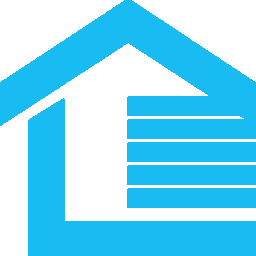
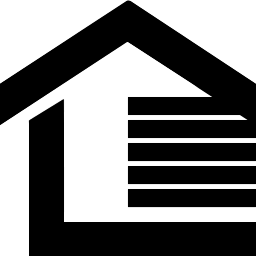
update readme

diff --git a/custom_components/espsomfy_rts/const.py b/custom_components/espsomfy_rts/const.py
@@ -2,7 +2,7 @@
 
 from homeassistant.const import Platform
 
-VERSION = "v2.5.3"
+VERSION = "v2.5.4"
 DOMAIN = "espsomfy_rts"
 MANUFACTURER = "xkain"
 API_CONTROLLER = "/controller"

diff --git a/README.md b/README.md
@@ -1,67 +1,107 @@
-<image src="https://user-images.githubusercontent.com/47839015/218900217-81f88955-67b8-4ed8-8e97-271de66c555e.png" align="right" style="margin-top:-2em;width:177px;margin-right:2em;display:inline-block;float:right;"></image>
+<div align="center">
 
-[![hacs_badge](https://img.shields.io/badge/HACS-Custom-41BDF5.svg?style=for-the-badge)](https://github.com/hacs/integration) 
+[![GitHub Release](https://img.shields.io/github/release/xkain/ESPSomfy-RTS-HA.svg?style=for-the-badge)](https://github.com/xkain/ESPSomfy-RTS-HA/releases)
+[![GitHub Activity](https://img.shields.io/github/last-commit/xkain/ESPSomfy-RTS-HA?style=for-the-badge)](https://github.com/xkain/ESPSomfy-RTS-HA/commits/main)
+[![License](https://img.shields.io/github/license/xkain/ESPSomfy-RTS-HA.svg?style=for-the-badge)](LICENSE)
 
-[![Open your Home Assistant instance and open a repository inside the Home Assistant Community Store.](https://my.home-assistant.io/badges/hacs_repository.svg)](https://my.home-assistant.io/redirect/hacs_repository/?owner=xkain&repository=ESPSomfy-RTS-HA)
+[![hacs_badge](https://img.shields.io/badge/HACS-Default-blue.svg?style=for-the-badge)](https://github.com/hacs/default)
+[![Project Maintenance](https://img.shields.io/badge/maintainer-xkain-blue.svg?style=for-the-badge)](https://github.com/xkain)
+![Github](https://img.shields.io/github/followers/xkain.svg?style=for-the-badge)
 
+<br />
+<br />
 
-# ESPSomfy RTS-HA (Fork )
-Control up to 32 of your somfy shades in Home Assistant and set their position using an ESP32 and an inexpensive CC1101 tranceiver module. You may also define up to 16 group shades that will allow you to move multiple covers at once.
+<!-- Home Assistant Action Button -->
+<a href="https://my.home-assistant.io/redirect/hacs_repository/?owner=xkain&repository=ESPSomfy-RTS-HA">
+  <img src="https://my.home-assistant.io/badges/hacs_repository.svg" alt="Open your Home Assistant instance and open a repository inside the Home Assistant Community Store.">
+</a>
 
+<br />
+<br />
 
+<a href="https://github.com/xkain/ESPSomfy-RTS-HA/">
+  <img src="https://github.com/xkain/ESPSomfy-RTS/raw/main/images/logo.svg" alt="Logo" width="80" height="80">
+</a>
 
-# Requirements
-This integration requires hardware that uses an ESP32 microcontroller and a CC1101 transceiver. Setup for this controller can be found at the [ESPSomfy RTS hardware repositiory](https://github.com/rstrouse/ESPSomfy-RTS). You must have one of these inexpensive radios configured for your shades.
+## ESPSomfy-RTS-HA
 
-# Installation
-The easiest way to get going is to install this integration in Home Assistant using HACS as a [Custom Repository](https://hacs.xyz/docs/faq/custom_repositories/). 
+A custom Home Assistant integration (Fork) to precisely control and monitor your equipment (roller shutters, shades, garage doors, gates) using the RTS 433 MHz protocol.
 
-1. Go to HACS &rarr; Integrations.
-2. Click the 3 dots in the top right corner and select **Custom repositories**.
-3. Add the following URL: `https://github.com/xkain/ESPSomfy-RTS-HA` and select **Integration** as the category.
-4. Click **Add** and install the integration.
+### [README complet en français 🇫🇷 »](https://github.com/xkain/ESPSomfy-RTS-HA/blob/main/README_fr.md)
+### [Explore the documentation »](https://github.com/xkain/ESPSomfy-RTS-HA/wiki)
 
-As an alternative you may install it manually by copying the contents of the `custom_components` folder to the `config/custom_components` directory of your Home Assistant installation.
+**[Report Bug](https://github.com/xkain/ESPSomfy-RTS-HA/issues) · [Request Feature](https://github.com/xkain/ESPSomfy-RTS-HA/pulls)**
 
-## Setup
-Once installed, ESPSomfy-RTS-HA will automatically detect any radio devices on your local network. Just browse to Home Assistant's Settings &rarr; Devices & Services and your ESPSomfy-RTS device will show up as available to configure.
+</div>
 
-# Updates
-After you have installed the plugin, you will be notified when there is a new version of the plugin available. As of v2.2.1 of the ESPSomfy RTS firmware you can also update your devices remotely using the update entity included in the plugin. It will notify you when there is a new version to install.
+<br />
 
-# Functionality
-Once configured you will be able to open, close, and set the position of your shades using home assistant. The integration will monitor the position of the shade regardless of how it was opened or closed. This includes opening or closing it using a Telis remote. Shades can be added to your dashboards and automated with Home Assistant services through automations.
+## Overview
 
-![image](https://user-images.githubusercontent.com/47839015/213933858-95042e9e-0874-4e58-8123-87146439a20e.png)
+**ESPSomfy-RTS-HA** allows you to control all your devices in Home Assistant and accurately set their position. This integration relies on an ESP32 microcontroller coupled with a cheap CC1101 transceiver module, driven by the [ESPSomfy-RTS](https://github.com/xkain/ESPSomfy-RTS) firmware.
 
-# Services
-There are a number of automation services available. You can find these in the [Services](https://github.com/rstrouse/ESPSomfy-RTS-HA/wiki/Services) wiki.
+## Requirements
 
-# Events
-The integration emits events on the Home Assistant event bus for all commands whether they have originated in Home Assistant, a remote control, or the ESPSomfy RTS web interface. These events can be captured using the `espsomfy-rts_event` type.
+This integration requires hardware running on an **ESP32** and a **CC1101** transceiver.
+To assemble and configure this hardware, please refer to the repository wiki: [components](https://github.com/rstrouse/ESPSomfy-RTS). The radio protocol must be configured for your devices before using this integration.
 
-The data payload for the event includes:
-* `entity_id`: The entitiy id in home assistant for the target cover
-* `event_key`: The event that triggered this event (for now this is always shadeCommand)
-* `name`: The name assigned to the entity
-* `source`: The originator of the command. This will be one of the following
-  * `remote`: The user pressed a button on a remote
-  * `internal`: The command originated from ESPSomfy RTS
-  * `group`: The command was part of a group command
-* `remote_address`: The address defined for the ESPSomfy RTS motor
-* `source_address`: The address of the source device. If this is a remote it will be the address of the remote channel. If it is part of a group request it will be the address of the group.
-* `command`: This will be one of the following commands
-  * `Up` - An up command was issued
-  * `Down` - An down command was issued
-  * `My` - A my/stop command was issued
-  * `StepUp` - A step up command was issued
-  * `StepDown` - A step down command was issued
-  * `Prog` - The prog button was pressed
-  * `My+Up` - A combination of the my and up button was pressed at the same time
-  * `My+Down` - A combination of the my and down button was pressed at the same time
-  * `Up+Down` - The up and down buttons were pressed at the same time
-  * `My+Up+Down` - The my, up, and down buttons were all pressed at the same time
-  
+---
 
-![image](https://github.com/rstrouse/ESPSomfy-RTS-HA/assets/47839015/2fbf4ad8-86b4-4d4e-ac8e-ce04ba4adeeb)
+## Installation
 
+### Method 1: Via HACS (Recommended)
+The easiest way to get started is to add this repository as a [Custom Repository](https://hacs.xyz/docs/faq/custom_repositories/) in HACS:
+
+1. Go to **HACS** → **Integrations**.
+2. Click the **3 dots** in the top right corner and select **Custom repositories**.
+3. Add the following URL: `https://github.com/xkain/ESPSomfy-RTS-HA`
+4. Select **Integration** as the category, then click **Add**.
+5. Download and install the integration.
+
+### Method 2: Manual Installation
+Simply copy the contents of the `custom_components/espsomfy_rts/` folder and paste it into the `config/custom_components/espsomfy_rts/` directory of your Home Assistant instance.
+
+### Initial Setup
+Once installed and Home Assistant is restarted, the integration will **automatically discover** your radio modules on the local network. Simply navigate to **Settings** → **Devices & Services**: your ESPSomfy-RTS device will show up, ready to be configured.
+
+---
+
+## Features
+
+* **Full Control**: Open, close, and set intermediate positions (percentages) directly from Home Assistant.
+* **State Synchronization**: The integration tracks the real-time position of the cover, even if it is operated by a physical Somfy Telis remote or via the ESP32 web interface.
+* **Simplified Updates**: You will receive a notification whenever a new version of the integration is available. Additionally, since v2.2.1 of the ESPSomfy RTS firmware, a dedicated `update` entity allows you to update your ESP32 firmware directly from the Home Assistant UI.
+* **Automations**: All shades are exposed as standard `cover` entities, ready to be added to your dashboards and used in automations via native services.
+
+---
+
+## Event Management (Events)
+
+The integration emits events on the Home Assistant event bus for every intercepted command (whether it originates from HA, a physical remote control, or the ESP web interface). These events use the `espsomfy-rts_event` type.
+
+### Event Payload Structure
+
+| Key | Description |
+| :--- | :--- |
+| `entity_id` | The target entity ID in Home Assistant (e.g., `cover.living_room_shade`). |
+| `event_key` | The event trigger (currently always set to `shadeCommand`). |
+| `name` | The friendly name assigned to the device. |
+| `remote_address` | The radio address defined for the motor in ESPSomfy RTS. |
+| `source_address` | The source device address (remote control channel address or group address). |
+
+### Values for `source` (Command Origin)
+* `remote`: The user pressed a button on a physical remote control.
+* `internal`: The command was initiated from the ESPSomfy RTS internal interface.
+* `group`: The command was part of a grouped action.
+
+### Values for `command` (Intercepted Actions)
+* `Up` / `Down` / `My`: Standard commands (Up, Down, Stop/Favorite Position).
+* `StepUp` / `StepDown`: Step-by-step micro-adjustments.
+* `Prog`: Program button press.
+* `My+Up` / `My+Down` / `Up+Down` / `My+Up+Down`: Simultaneous physical key combinations.
+
+---
+
+## Automations and Services
+
+Many specific services are available to enrich your automations. Check out the usage examples directly in the [Services section of the Wiki](https://github.com/rstrouse/ESPSomfy-RTS-HA/wiki/Services).

diff --git a/README_fr.md b/README_fr.md
@@ -1,0 +1,113 @@
+[![GitHub Release](https://img.shields.io/github/release/xkain/ESPSomfy-RTS-HA.svg?style=for-the-badge)](https://github.com/xkain/ESPSomfy-RTS-HA/releases)
+[![License](https://img.shields.io/github/license/xkain/ESPSomfy-RTS-HA.svg?style=for-the-badge)](LICENSE)
+[![hacs_badge](https://img.shields.io/badge/HACS-Default-blue.svg?style=for-the-badge)](https://github.com/hacs/default)
+[![Project Maintenance](https://img.shields.io/badge/maintainer-xkain-blue.svg?style=for-the-badge)](https://github.com/xkain)
+![Github](https://img.shields.io/github/followers/xkain.svg?style=for-the-badge)
+[![GitHub Activity](https://img.shields.io/github/last-commit/xkain/ESPSomfy-RTS-HA?style=for-the-badge)](https://github.com/xkain/ESPSomfy-RTS-HA/commits/main)
+
+
+
+
+
+<div align="center">
+  <!-- Badge HACS à gauche -->
+ 
+  <!-- Bouton d'action Home Assistant à droite -->
+  <a href="https://my.home-assistant.io/redirect/hacs_repository/?owner=xkain&repository=ESPSomfy-RTS-HA">
+    <img src="https://my.home-assistant.io/badges/hacs_repository.svg" alt="Open your Home Assistant instance and open a repository inside the Home Assistant Community Store.">
+  </a>
+<br />
+<br />
+<br />
+
+
+  <a href="https://github.com/xkain/ESPSomfy-RTS-HA/">
+    <img src="https://github.com/xkain/ESPSomfy-RTS/raw/main/images/logo.svg" alt="Logo" width="80" height="80">
+  </a>
+
+  <h2 align="center"> ESPSomfy-RTS-HA</h2>
+
+  <p align="center">
+    Une intégration Home Assistant personnalisée (Fork) permettant de contrôler et de suivre précisément vos équipements (volets roulants, stores, porte de garage, portail et autres équipements utilisant le protocole RTS 433 MHz.
+    <br />
+    <br />
+    <a href="https://github.com/xkain/ESPSomfy-RTS-HA/wiki"><strong>Explorer la documentation »</strong></a>
+    <br />
+    <br />
+    <a href="https://github.com/xkain/ESPSomfy-RTS-HA/issues">Signaler un Bug</a>
+    ·
+    <a href="https://github.com/xkain/ESPSomfy-RTS-HA/pulls">Demander une Fonctionnalité</a>
+  </p>
+</div>
+
+<br />
+
+## Présentation
+
+**ESPSomfy-RTS-HA** vous permet de piloter tous vos équipements dans Home Assistant et de définir précisément leur position. L'intégration s'appuie sur un microcontrôleur ESP32 couplé à un module émetteur-récepteur CC1101 piloté par le firmware [ESPSomfy-RTS](https://github.com/xkain/ESPSomfy-RTS).
+
+## Prérequis
+
+Cette intégration nécessite une passerelle matérielle basée sur un **ESP32** et un **CC1101**. 
+Pour assembler et configurer ce matériel, veuillez vous référer au wiki du dépot : [components](https://github.com/rstrouse/ESPSomfy-RTS). Le protocole radio doit être configuré pour vos équipements avant d'utiliser cette intégration.
+
+---
+
+## Installation
+
+### Méthode 1 : Via HACS (Recommandée)
+L'installation la plus simple se fait en ajoutant ce dépôt comme [Dépôt Personnalisé (Custom Repository)](https://hacs.xyz/docs/faq/custom_repositories/) dans HACS :
+
+1. Allez dans **HACS** → **Intégrations**.
+2. Cliquez sur les **3 points** en haut à droite et sélectionnez **Dépôts personnalisés**.
+3. Ajoutez l'URL suivante : `https://github.com/xkain/ESPSomfy-RTS-HA`
+4. Sélectionnez **Intégration** comme catégorie, puis cliquez sur **Ajouter**.
+5. Téléchargez et installez l'intégration.
+
+### Méthode 2 : Installation Manuelle
+Copiez simplement le contenu du dossier `custom_components/espsomfy_rts/` et collez-le dans le répertoire `config/custom_components/espsomfy_rts/` de votre instance Home Assistant.
+
+### Configuration initiale
+Une fois installée et Home Assistant redémarré, l'intégration **détectera automatiquement** vos modules radio présents sur le réseau local. Rendez-vous simplement dans **Paramètres** → **Appareils et services** : votre équipement ESPSomfy-RTS y apparaîtra prêt à être configuré.
+
+---
+
+## Fonctionnalités
+
+* **Contrôle total** : Ouvrez, fermez et définissez des positions intermédiaires (pourcentage) directement depuis Home Assistant.
+* **Synchronisation d'état** : L'intégration suit en temps réel la position réelle du volet, même si celui-ci est actionné par une télécommande physique Somfy Telis ou via l'interface web de l'ESP32.
+* **Mises à jour simplifiées** : Vous recevez une notification dès qu'une nouvelle version de l'intégration est disponible. De plus, depuis la v2.2.1 du firmware ESPSomfy RTS, une entité `update` dédiée vous permet de mettre à jour le micrologiciel de vos ESP32 directement depuis l'interface de Home Assistant.
+* **Automatisations** : Tous les volets sont exposés comme des entités `cover` classiques, prêtes à être intégrées à vos tableaux de bord et à vos automatisations via les services natifs.
+
+---
+
+## Gestion des Événements (Events)
+
+L'intégration émet des événements sur le bus de Home Assistant pour chaque commande interceptée (qu'elle vienne de HA, d'une télécommande physique ou de l'interface web de l'ESP). Ces événements utilisent le type `espsomfy-rts_event`.
+
+### Structure du Payload de l'événement
+
+| Clé | Description |
+| :--- | :--- |
+| `entity_id` | L'identifiant de l'entité cible dans Home Assistant (ex: `cover.volet_salon`). |
+| `event_key` | Le déclencheur de l'événement (actuellement toujours positionné sur `shadeCommand`). |
+| `name` | Le nom convivial attribué à l'équipement. |
+| `remote_address` | L'adresse radio définie pour le moteur dans ESPSomfy RTS. |
+| `source_address` | L'adresse de l'appareil source (adresse du canal de la télécommande ou du groupe). |
+
+### Valeurs de `source` (Origine de la commande)
+* `remote` : L'utilisateur a appuyé sur un bouton d'une télécommande physique.
+* `internal` : La commande a été initiée depuis l'interface interne de l'ESPSomfy RTS.
+* `group` : La commande fait partie d'une action groupée.
+
+### Valeurs de `command` (Actions interceptées)
+* `Up` / `Down` / `My` : Commandes standards (Monter, Descendre, Stop/Position Favorite).
+* `StepUp` / `StepDown` : Variations pas-à-pas.
+* `Prog` : Appui sur le bouton de programmation.
+* `My+Up` / `My+Down` / `Up+Down` / `My+Up+Down` : Combinaisons de touches physiques simultanées.
+
+---
+
+##  Automatisations et Services
+
+De nombreux services spécifiques sont mis à votre disposition pour enrichir vos automatisations. Consultez les exemples d'utilisation directement dans la section [Services du Wiki](https://github.com/rstrouse/ESPSomfy-RTS-HA/wiki/Services).